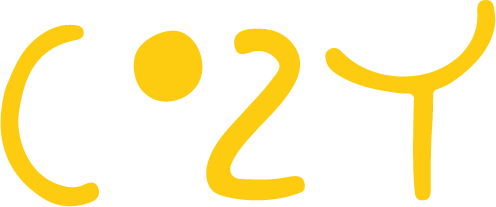
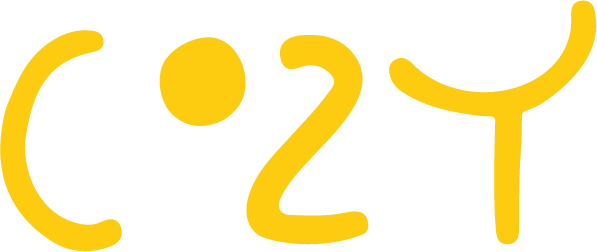
Cut the lockup from the high-res master, drop the paper texture
The wordmark was the worst of it — "games" was a 185px-wide file being
drawn at well over twice that, so it blurred on any decent screen. All
three pieces are now cut out of brand/High Rez White logo.png, which
carries the full lockup at 1575px, and the white cat and "games" are
recoloured to black for the light theme. Same geometry, same layout,
roughly three times the pixels where it mattered.

The dot-grid texture is gone from the ground; the gradient carries the
page on its own now.

diff --git a/src/styles/global.css b/src/styles/global.css
@@ -1,6 +1,6 @@
 /* ============================================================
    Cozy Games — design tokens & global styles
-   Dusk-lilac paper, the brand violet and yellow, soft bubbly
+   Dusk-lilac ground, the brand violet and yellow, soft bubbly
    shapes and clean rounded type. Nothing sharp, nothing loud.
    ============================================================ */
 
@@ -47,10 +47,6 @@
       transparent 62%
     ),
     linear-gradient(168deg, #f7f2fc 0%, #ebe4f8 54%, #ded5f0 100%);
-
-  /* Grain — the two dot grids that give the paper its tooth. */
-  --grain-strong: rgba(104, 86, 140, 0.062);
-  --grain-soft: rgba(104, 86, 140, 0.044);
 
   /* Ornaments. Large bubbles melt into the ground; small ones spark. */
   --bubble-violet: rgba(163, 111, 175, 0.26);
@@ -111,9 +107,6 @@
         transparent 64%
       ),
       linear-gradient(168deg, #2c2537 0%, #262030 54%, #1f1a28 100%);
-
-    --grain-strong: rgba(228, 216, 248, 0.05);
-    --grain-soft: rgba(228, 216, 248, 0.035);
 
     --bubble-violet: rgba(150, 122, 176, 0.32);
     --bubble-blush: rgba(174, 136, 166, 0.28);
@@ -206,9 +199,8 @@ a:hover {
   overflow-x: clip;
 }
 
-/* The ground and the paper tooth on one pinned layer: two offset dot grids,
-   only just visible, over the gradient. Its height comes from --stage-h rather
-   than `inset: 0` so it keeps its exact size while the address bar moves. */
+/* The ground, on one pinned layer. Its height comes from --stage-h rather than
+   `inset: 0` so it keeps its exact size while the address bar moves. */
 .page::before {
   content: '';
   position: fixed;
@@ -218,27 +210,10 @@ a:hover {
   height: var(--stage-h);
   pointer-events: none;
   z-index: 0;
-  background-image:
-    radial-gradient(
-      circle at 50% 50%,
-      var(--grain-strong) 0.6px,
-      transparent 0.7px
-    ),
-    radial-gradient(
-      circle at 50% 50%,
-      var(--grain-soft) 0.5px,
-      transparent 0.6px
-    ),
-    var(--ground);
-  background-size:
-    7px 7px,
-    11px 11px,
-    cover;
-  background-position:
-    0 0,
-    3px 4px,
-    center;
-  background-repeat: repeat, repeat, no-repeat;
+  background-image: var(--ground);
+  background-size: cover;
+  background-position: center;
+  background-repeat: no-repeat;
 }
 
 /* ---------- Playful backdrop ---------- */

diff --git a/README.md b/README.md
@@ -42,8 +42,10 @@ src/
 - Design tokens (palette, fonts, radii) live as CSS variables at the top of `src/styles/global.css`.
 - The lockup is three files in `public/`: `cat.png`, `wordmark-cozy.png`, `wordmark-games.png`,
   composed by `src/components/Logo.tsx`. `cat-dark.png` and `wordmark-games-dark.png` are the same
-  drawings in white for dark mode; "cozy" is brand yellow and is used in both. Regenerate the dark
-  pair by recolouring the light file to white and keeping its alpha, so the geometry still matches.
+  drawings in white for dark mode; "cozy" is brand yellow and is used in both. All five are cut out
+  of `brand/High Rez White logo.png`, which holds the full lockup in one file — the cat and "games"
+  in white, "cozy" in yellow — with the white pair recoloured to black for the light theme. When a
+  new master lands, re-cut rather than rescaling the pieces.
 - Dark mode is a `prefers-color-scheme` block of token overrides at the top of `global.css`.
   `color-scheme: light dark` is declared so phones stop force-darkening the light theme themselves.
 - Anything sized to the viewport uses `--stage-h` / `--stage-min` (pinned to `lvh`) rather than
